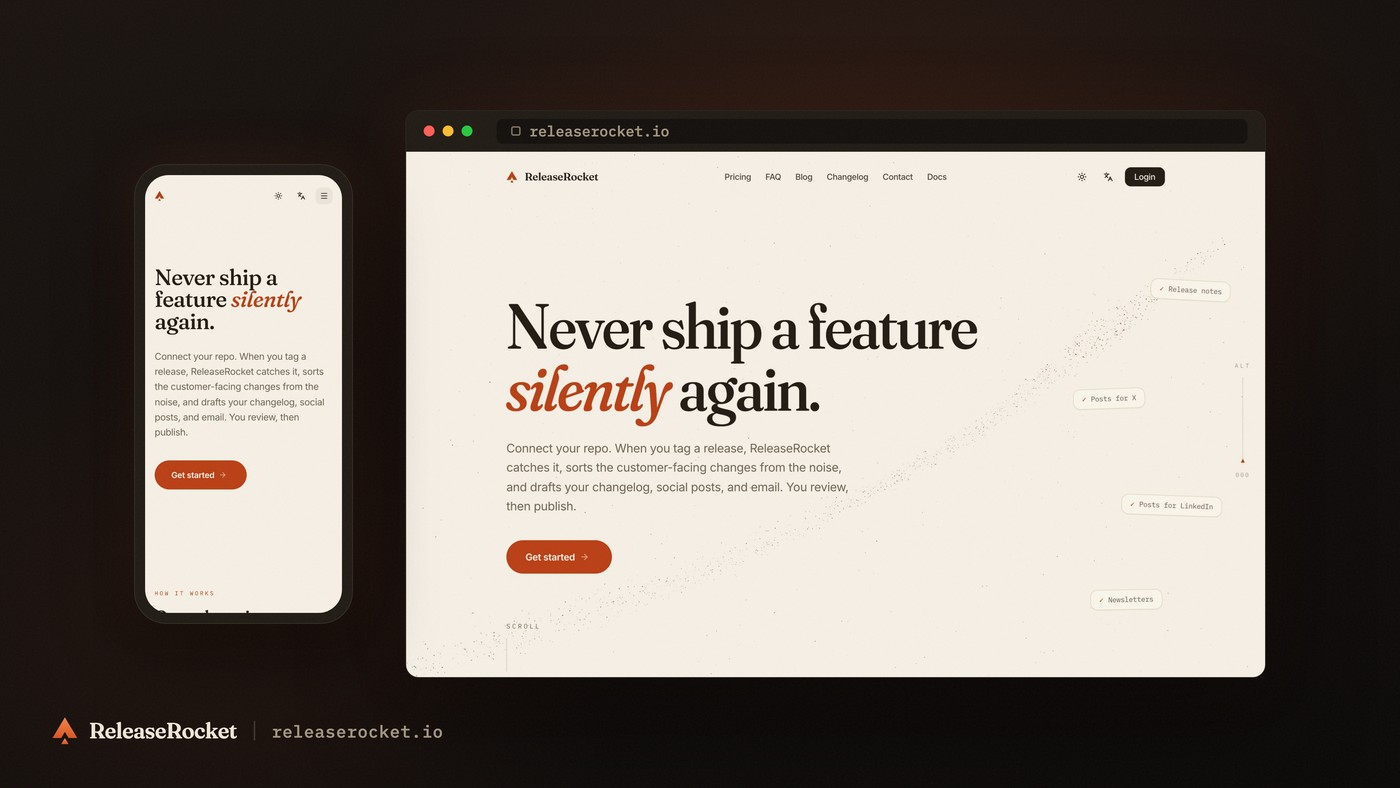
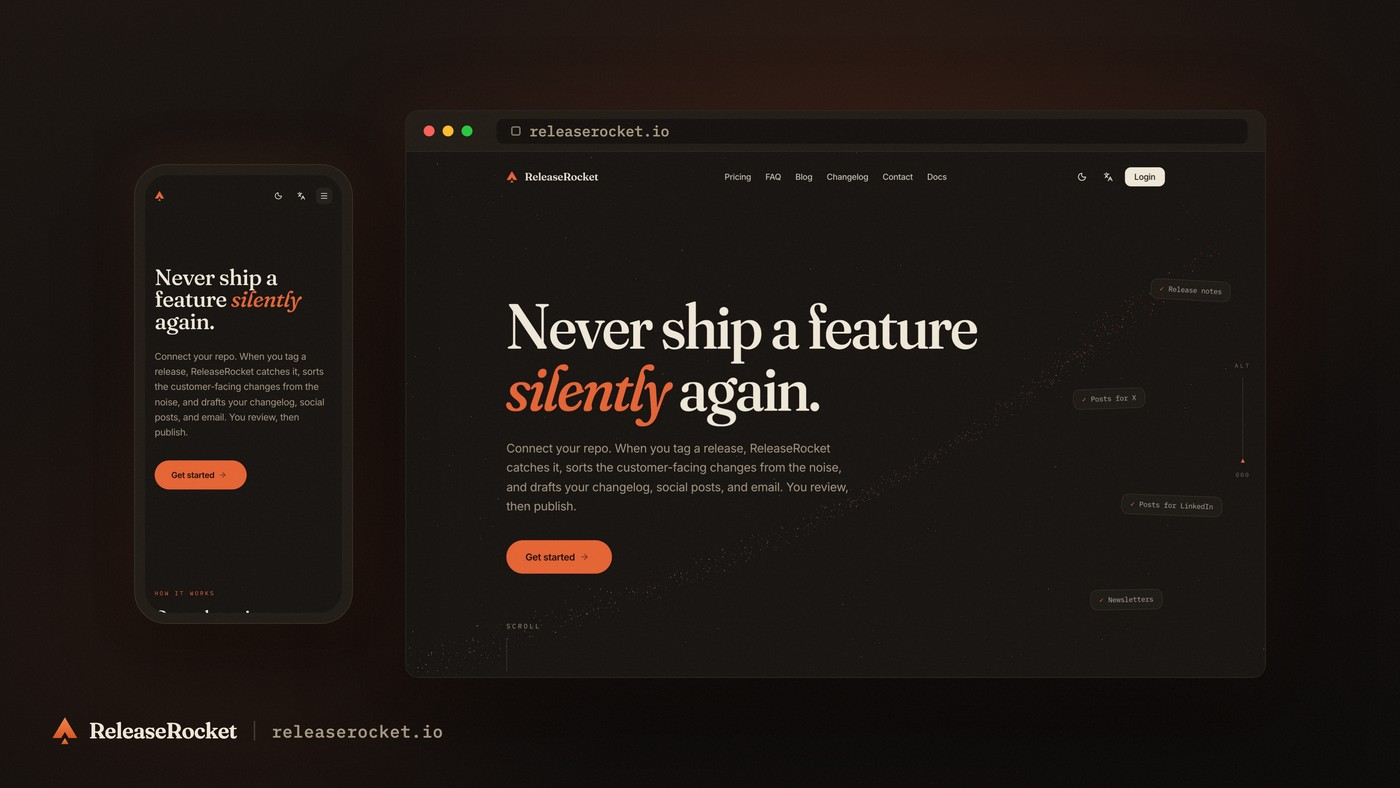
add: dark-mode capture flag, switch showcase example to dark theme

diff --git a/scripts/screenshot-url.js b/scripts/screenshot-url.js
@@ -21,6 +21,8 @@
 //                        lazy images, web fonts. Default: 4000
 //   --scale <n>          Device scale factor (retina). Default: 2
 //   --full-page          Capture the whole scrollable page, not just the viewport.
+//   --dark               Emulate prefers-color-scheme: dark, for sites whose
+//                        theme follows the system setting.
 //
 // Output: assets/<slug>/<page>-<viewport>.png  (one file per requested viewport)
 //
@@ -65,6 +67,7 @@ function parseArgs(argv) {
     wait: 4000,
     scale: 2,
     fullPage: false,
+    dark: false,
   };
   for (let i = 0; i < argv.length; i++) {
     const a = argv[i];
@@ -73,6 +76,7 @@ function parseArgs(argv) {
     else if (a === "--wait") args.wait = Number(argv[++i]);
     else if (a === "--scale") args.scale = Number(argv[++i]);
     else if (a === "--full-page") args.fullPage = true;
+    else if (a === "--dark") args.dark = true;
     else if (a === "--viewport") {
       // name:WxH adds a one-off viewport (desktop-class by default).
       const spec = argv[++i] || "";
@@ -108,7 +112,7 @@ async function main() {
   if (!url || !slug) {
     console.error(
       "Usage: node scripts/screenshot-url.js <url> <slug> [--viewports desktop,mobile] " +
-        "[--viewport name:WxH] [--name page] [--wait ms] [--scale n] [--full-page]",
+        "[--viewport name:WxH] [--name page] [--wait ms] [--scale n] [--full-page] [--dark]",
     );
     process.exit(1);
   }
@@ -157,6 +161,7 @@ async function main() {
         deviceScaleFactor: args.scale,
         isMobile: !!vp.isMobile,
         hasTouch: !!vp.isMobile,
+        colorScheme: args.dark ? "dark" : "light",
       });
       const page = await context.newPage();
 

diff --git a/posters/releaserocket-device-showcase.html b/posters/releaserocket-device-showcase.html
@@ -15,6 +15,7 @@
 
   THE SCREENSHOTS come from scripts/screenshot-url.js:
       node scripts/screenshot-url.js https://yoursite.com <slug>
+      (add --dark to capture the site's dark theme, as this example does)
       -> assets/<slug>/<page>-desktop.png  (1440x900 @2x)
       -> assets/<slug>/<page>-mobile.png   (390x844  @2x)
   where <page> is "home" for a root URL, else the URL's last path segment

diff --git a/README.md b/README.md
@@ -109,7 +109,7 @@ The command uses Python with `rembg` and Pillow. If `rembg` is missing, the comm
 node scripts/screenshot-url.js https://yoursite.com mysite
 ```
 
-This captures the page at real device viewports into `assets/mysite/`: desktop (1440x900) and mobile (390x844) by default, both at 2x, with presets for tablet and full HD and custom sizes via `--viewport name:WxH`. The browser launches with GPU rendering enabled, which lets WebGL and Three.js pages paint their canvas instead of the blank no-GPU fallback headless Chromium defaults to; a per-shot diagnostic reports whether a live WebGL context was found.
+This captures the page at real device viewports into `assets/mysite/`: desktop (1440x900) and mobile (390x844) by default, both at 2x, with presets for tablet and full HD, custom sizes via `--viewport name:WxH`, and `--dark` to capture a site's dark theme. The browser launches with GPU rendering enabled, which lets WebGL and Three.js pages paint their canvas instead of the blank no-GPU fallback headless Chromium defaults to; a per-shot diagnostic reports whether a live WebGL context was found.
 
 Drop the shots into the device-showcase example: copy [`posters/releaserocket-device-showcase.html`](posters/releaserocket-device-showcase.html), repoint its two image paths, change the address-bar text and wordmark, and export. The file's header comment walks through the whole swap.
 
